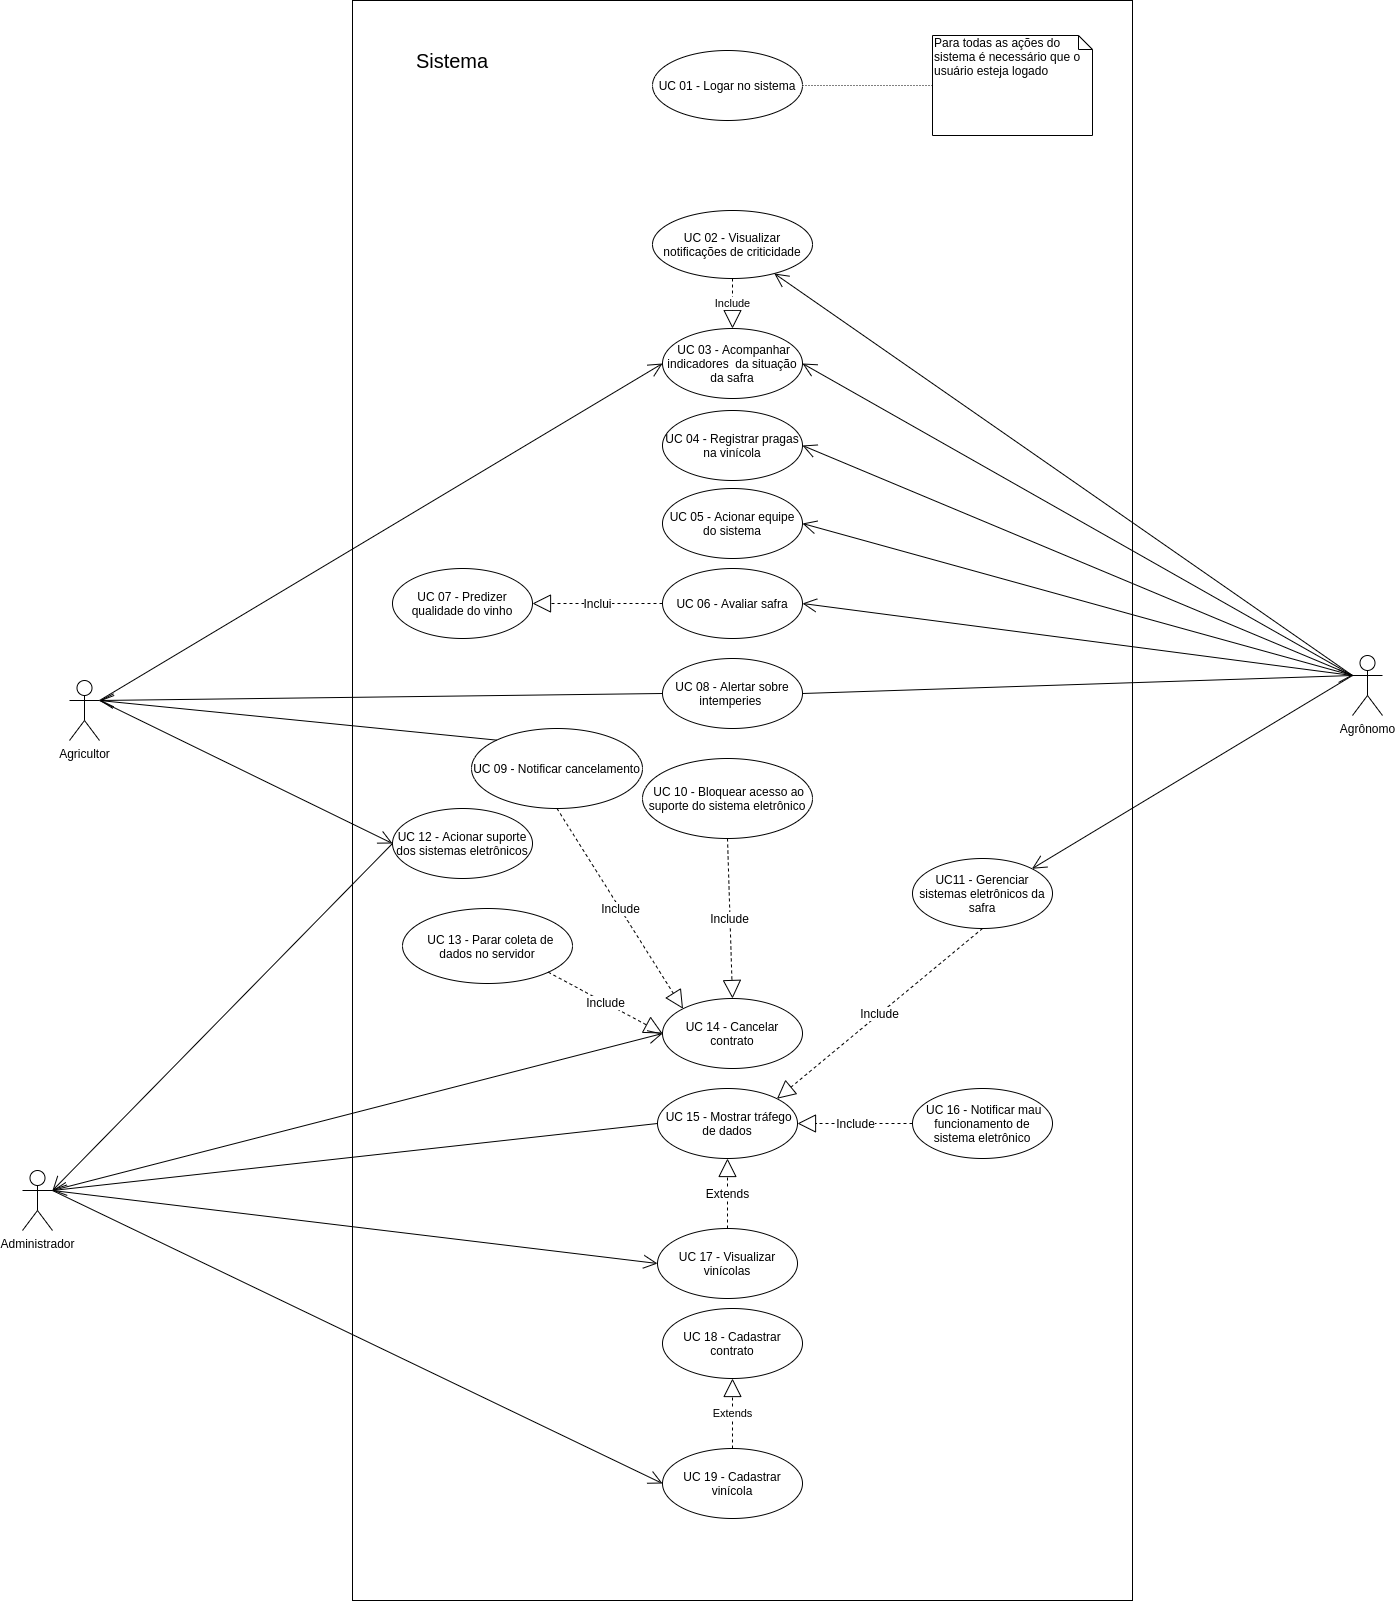
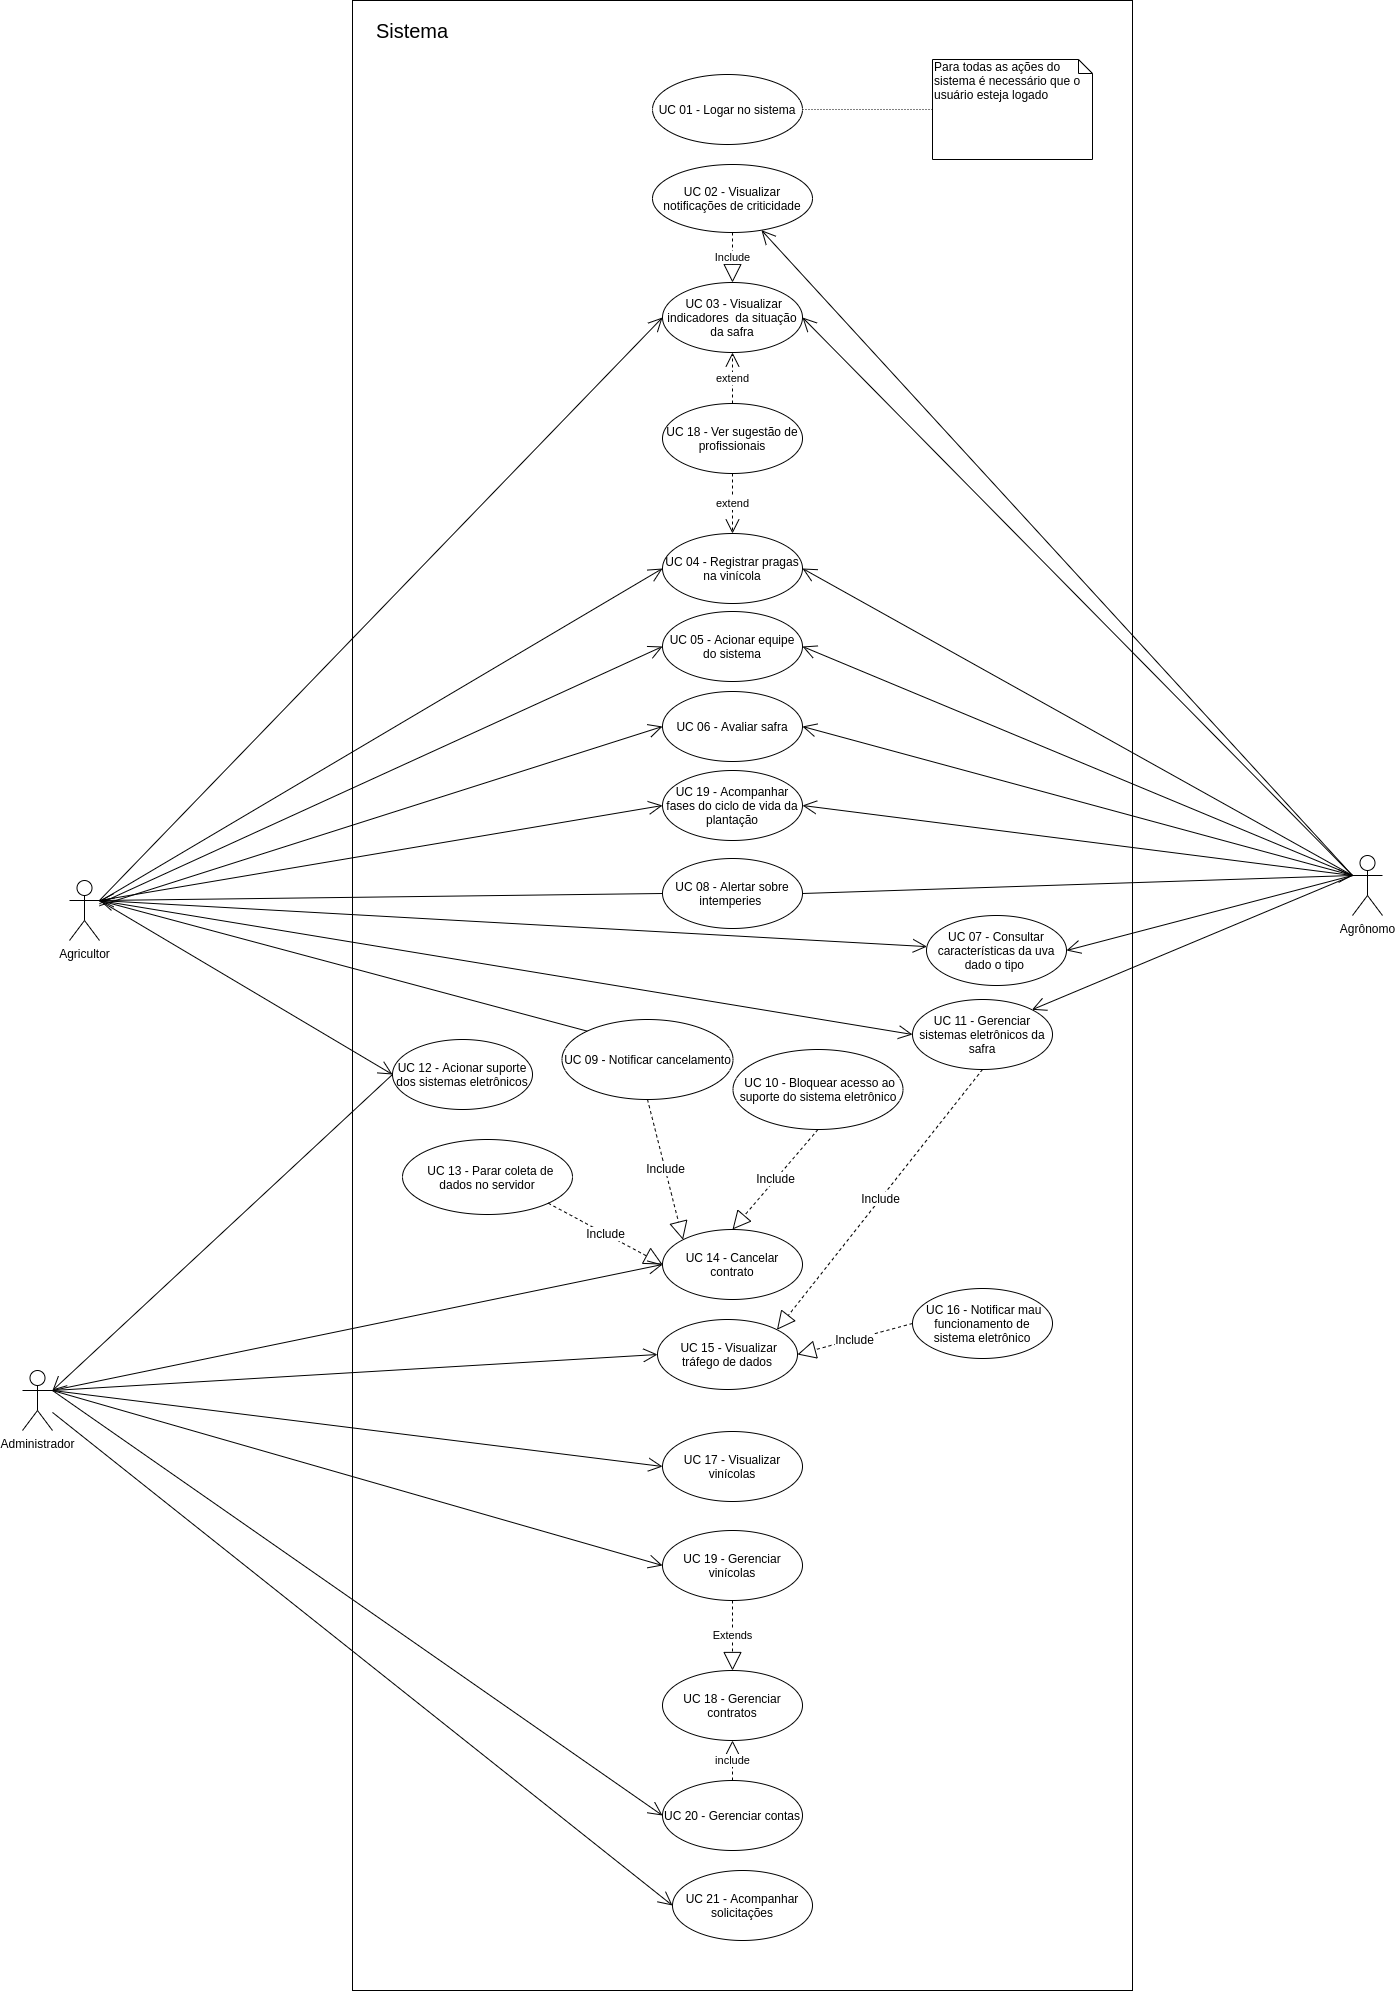
[Docs] Updating user cases

diff --git a/docs/software/architecture.md b/docs/software/architecture.md
@@ -104,13 +104,13 @@ O diagrama de caso de uso descreve as funcionalidades propostas para um sistema,
 | | |
 | -- | -- |
 | Descrição | O agrônomo visualizará as notificações recebidas sobre quaisquer indicadores críticos relacionados à safra |
-| Atores | Agrônomo |
-| Pré-condições | Usuário deve possuir perfil de agrônomo no sistema |
+| Atores | Agrônomo, agricultor |
+| Pré-condições | Usuário deve possuir perfil de agrônomo ou agricultor no sistema |
 | Pós-condições | O usuário deve receber notificações sempre que a vinícola apresentar algum indicador fora do intervalo esperado, via email e através do próprio sistema |
-| Fluxo principal | 1. Sistema decta indicador fora do intervalo <br> 2. Usuário recebe email sobre a criticidade de um indicador <br> 3. Usuário entra no sistema <br> 4.Usuário clica nas notificações |
+| Fluxo principal | 1. Sistema detecta indicador fora do intervalo <br> 2. Usuário recebe email sobre a criticidade de um indicador <br> 3. Usuário entra no sistema <br> 4.Usuário clica nas notificações |
 | Fluxo de exceção | |
 
-#### UC 03 - Acompanhar indicadores da situação da safra
+#### UC 03 - Visualizar indicadores da situação da safra
 | | |
 | -- | -- |
 | Descrição | O usuário poderá visualizar um dashboard com os principais indicadores da safra |
@@ -124,41 +124,40 @@ O diagrama de caso de uso descreve as funcionalidades propostas para um sistema,
 | | |
 | -- | -- |
 | Descrição | Usuário pode registrar pragas identificadas na sua vinícola para acompanhamento |
-| Atores | Agrônomo |
+| Atores | Agrônomo, agricultor|
 | Pré-condições | Usuário deve estar logado no sistema |
 | Pós-condições | Na página de acompanhamento deve aparecer as pragas registradas |
-| Fluxo principal | 1. Usuário faz login no sistema <br> 2. Usuário acessa dashboard e clica em "registrar praga" <br> 3. Preenche o formulário informando a praga <br> 4. Clica em 'registrar' |
+| Fluxo principal | 1. Usuário faz login no sistema <br> 2. Usuário acessa dashboard e clica em "registrar praga" <br> 3. Preenche o formulário informando a praga <br> 4.Registra plano de ação 5. Clica em 'enviar' |
 | Fluxo de exceção | |
 
 #### UC 05 - Acionar equipe do sistema
 | | |
 | -- | -- |
-| Descrição | O usuário poderá acionar a equipe do sistema para eventuais problemas nos dados obtidos, enviando uma mensagem para o administrador |
-| Atores | Agrônomo |
-| Pré-condições | Usuário deve estar logado no sistema |
+| Descrição | O usuário poderá acionar a equipe do sistema para eventuais problemas nos sistemas e/ou dados, enviando uma mensagem para a equipe |
+| Atores | Agrônomo, agricultor |
+| Pré-condições | Usuário deve estar logado no sistema como agrônomo ou agricultor |
 | Pós-condições | O usuário deve conseguir enviar uma mensagem para o administrador a fim de informar irregularidade/problemas no sistema web|
-| Fluxo principal | 1. O usuário deve entrar no sistema <br> 2. Clicar no ícone correspondente à "suporte do sistema" <br> 3. Preencher o formulário infomando o problema e/ou solicitação <br> 4. O usuário deve clicar "enviar"|
+| Fluxo principal | 1. O usuário deve entrar no sistema <br> 2. Clicar no menu lateral correspondente à "suporte" <br> 3. Preencher o formulário informando o tipo, título, mensagem e prioridade do problema e/ou solicitação <br> 4. O usuário deve clicar "enviar"|
 | Fluxo de exceção | |
-
 
 #### UC 06 - Avaliar safra
 | | |
 | -- | -- |
-| Descrição | O agrônomo deverá/poderá responder um questionário sobre a uva obtida no final da safra |
+| Descrição | O agrônomo responderá um questionário sobre a uva obtida no final da safra |
 | Atores | Agrônomo |
 | Pré-condições | O agrônomo deve está logado no sistema |
 | Pós-condições | O usuário deve receber uma análise da qualidade do vinho a ser obtido com a uva coletada |
 | Fluxo principal | 1. O agrônomo entrará na página do dashboard <br> 2. Clicará em "avaliar resultado da safra" <br> 3. Irá clicar em "enviar" <br> 4. Será redirecionado para uma página em formato PDF com as prováveis qualidades do vinho que será obtido com a uva produzida. |
 | Fluxo de exceção | |
 
-#### UC 07 - Predizer qualidade do vinho
+#### UC 07 - Consultar características da uva dado o tipo
 | | |
 | -- | -- |
-| Descrição | Ao receber as informações da avaliação da safra, realizada pelo agrônomo, o sistema irá fornecer informações sobre a qualidade do vinho a ser obtido com aquela safra |
+| Descrição | O usuário poderá consultar as características físico/químicas da uva de acordo com o tipo de uva |
 | Atores | Sistema |
-| Pré-condições | O agrônomo deve enviar o formulário de avaliação da safra |
-| Pós-condições | O sistema deve ser capaz de mapear a qualidade do vinho a ser obtido |
-| Fluxo principal | 1. O usuário enviará o formulário de avaliação <br> 2. O sistema realizará a predição <br> 3. O sistema fornecerá um PDF com as informações processadas |
+| Pré-condições | O usuário deve ter perfil de agrônomo ou agricultor no sistema |
+| Pós-condições | O sistema deve ser capaz de retornar um relatório com as principais características da uva |
+| Fluxo principal | 1. O usuário acessa menu lateral <br> 2. Clica em 'caracteríriscas uva' <br> 3. Será direcionado para uma página com um formulário para seleção do tipo de uva  <br> 4. O sistema fornecerá uma tabela com as principais características |
 | Fluxo de exceção |  |
 
 
@@ -200,7 +199,7 @@ O diagrama de caso de uso descreve as funcionalidades propostas para um sistema,
 | Atores | Agrônomo |
 | Pré-condições | O usuário deve estar logado na plataforma e possuir perfil de agrônomo |
 | Pós-condições | O usuário deve ter acesso à todos os sistemas eletrônicos e dados processados dentro do sistema |
-| Fluxo principal | 1. O agrônomo entra na plataforma <br> 2. Clica em "Sistemas instalados" <br> 3. Vê a lista de sistemas instalados na vinícola <br> 4. Entra em um sistema que deseja gerenciar <br> 5. Visualiza os sensores instalados, dados coletados, entre outras informações |
+| Fluxo principal | 1. O agrônomo ou agricultor entra na plataforma <br> 2. Clica em "Sistemas" <br> 3. Vê a lista de sistemas instalados na vinícola <br> 4. Entra em um sistema que deseja gerenciar <br> 5. Visualiza os sensores instalados, dados coletados, entre outras informações |
 | Fluxo de exceção | |
 
 #### UC 12 - Acionar suporte dos sistemas eletrônicos
@@ -234,14 +233,14 @@ O diagrama de caso de uso descreve as funcionalidades propostas para um sistema,
 | Fluxo principal | 1. Administrador deve logar no sistema <br> 2. Administrador deve selecionar "Contratos" <br> 3. Deve clicar em "cancelar contrato"|
 | Fluxo de exceção | |
 
-#### UC 15 - Mostrar tráfego de dados
+#### UC 15 - Verificar tráfego de dados
 | | |
 | -- | -- |
 | Descrição | O administrador verá o tráfego de dados dos sistemas presentes nas vinícolas |
 | Atores | Administrador |
 | Pré-condições | O usuário deve estar logado e possuir perfil de administrador |
 | Pós-condições | O administrador deve ser capaz de visualizar pausas ou irregularidades através do tráfego de dados dos sensores |
-| Fluxo principal | 1. O administrador loga no sistema <br> 2. Ele entra na aba "Sistemas eletrônicos" <br> 3. Ele clica em "fluxo de dados" <br> 4. Ele visualiza uma lista de sistemas e sensores <br> 5. Ele filtra pelo sistema que deseja <br> 6.Clica em "filtrar" <br> 7. Entra no sistema e visualiza o tráfego |
+| Fluxo principal | 1. O administrador loga no sistema <br> 2. Ele clica na aba "Monitoramento" <br> 3. Visualiza estado dos sensores |
 | Fluxo de exceção | |
 
 #### UC 16 - Notificar mau funcionamento de sistema eletrônico
@@ -251,9 +250,8 @@ O diagrama de caso de uso descreve as funcionalidades propostas para um sistema,
 | Atores | Sistema |
 | Pré-condições | Algum sensor deve deixar de enviar dados com regularidade |
 | Pós-condições | Administrador recebe notificação e email informando qual o sistema eletrônico que possivelmente está com problemas |
-| Fluxo principal | 1. O usuário deve entrar no sistema <br> 2. Clicar no ícone correspondente à "sistema físico" <br> 3. Abrirá uma página discriminando os sistemas instalados na vinícola 4. O usuário deve clicar em acionar supor|
+| Fluxo principal | 1. O usuário deve entrar no sistema <br> 2. Clicar no ícone correspondente à "sistema" <br> 3. Abrirá uma página discriminando os sistemas instalados na vinícola 4. O usuário deve clicar em acionar suporte |
 | Fluxo de exceção | |
-
 
 #### UC 17 - Visualizar vinícolas
 | | |
@@ -262,7 +260,7 @@ O diagrama de caso de uso descreve as funcionalidades propostas para um sistema,
 | Atores | Administrador |
 | Pré-condições | O usuário deve estar logado e possuir perfil de administrador |
 | Pós-condições | O usuário deve visualizar todas as vinícolas cadastradas |
-| Fluxo principal | 1. Usuário entra no sistema <br> 2. Usuário clica em "Vinícolas" |
+| Fluxo principal | 1. Usuário entra no sistema <br> 2. Usuário clica em "monitoramento" 3. Seleciona uma vinícola |
 | Fluxo de exceção | |
 
 #### UC 18 - Cadastrar contrato
@@ -272,7 +270,7 @@ O diagrama de caso de uso descreve as funcionalidades propostas para um sistema,
 | Atores | Administrador |
 | Pré-condições | O usuário deve estar logado e possuir perfil de administrador |
 | Pós-condições | O contrato deve estar pronto para receber os dados da vinícola a ser vinculada |
-| Fluxo principal | 1. O administrador entra no sistema <br> 2. Clica em "novo contrato" <br> 3. Preenche o formulário com os dados do novo contrato <br> 4. O usuário é redirecionado para a página de contratos |
+| Fluxo principal | 1. O administrador entra no sistema <br> 2. Clica em contrato 3. Clica em "novo contrato" <br> 3. Preenche o formulário com os dados do novo contrato <br> 4. O usuário é redirecionado para a página de contratos |
 | Fluxo de exceção | |
 
 #### UC 19 - Cadastrar vinícola
@@ -280,10 +278,30 @@ O diagrama de caso de uso descreve as funcionalidades propostas para um sistema,
 | -- | -- |
 | Descrição | O administrador irá cadastrar as vinícolas associando-as a um contrato |
 | Atores | Administrador |
-| Pré-condições | 1. O usuário deve estar logado e ser administrador <br> 2. O contrato deve existir e estar ativo <br> 3. Os sistemas devem estar instalados e cadastrados |
+| Pré-condições | 1. O usuário deve estar logado e ser administrador <br> 2. O contrato deve existir e estar ativo |
 | Pós-condições | 1. Devem ser criados os emails do agricultor e do agrônomo responsável, fornecendo-os acesso ao sistema <br> 2. A vinícola deve aparecer na lista de vinícolas cadastradas <br> 3. Os sistemas devem ser associados à vinícola  <br> 4. Os dados devem ser captados do servidor |
 | Fluxo principal | 1. O administrador entra no sistema <br> 2. Pesquisa pelo contrato que receberá a vinícola <br> 3. Entra no contrato <br> 4. Clica em "cadastrar vinícola" <br> 5. Preenche o formulário <br> 6. Clica em "cadastrar" |
-| Fluxo de exceção | |
+| Fluxo de exceção | Se a vinícola já existir o usuário só poderá editar o cadastro |
+
+#### UC 20 - Gerenciar contas 
+| | |
+| -- | -- |
+| Descrição | O administrador poderá cadastrar, ativar ou inativar contas para os contratos |
+| Atores | Administrador |
+| Pré-condições | 1. O usuário a ser cadastrado deve ser associado à vinícola e contrato correspondente |
+| Pós-condições | 1. As contas dos usuários devem ser criadas, ativadas, inativadas ou atualizadas |
+| Fluxo principal | 1. O administrador entra no sistema <br> 2. Clica no menu lateral em "gerenciar usuários" <br> 3. Administrador pode criar ou alterar os usuários |
+| Fluxo de exceção |  |
+
+#### UC 21 - Acompanhar solicitações
+| | |
+| -- | -- |
+| Descrição | O administrador realizará o acompanhamento das solicitações recebidas de cadastro através da landing page |
+| Atores | Administrador |
+| Pré-condições | 1. O usuário deve ter perfil de administrador |
+| Pós-condições | 1. O usuário deve ser capaz de visualizar, e dar check nas solicitações recebidas, marcando-as como atendidas, em execução ou canceladas |
+| Fluxo principal | 1. O administrador entra no sistema <br> 2. Clica no menu lateral em "solicitações"  |
+| Fluxo de exceção |  |
 
 ## 5. Visão Lógica
 
@@ -321,3 +339,4 @@ A visão geral de banco de dados consiste na diagramação básica que define co
 | Versão 01 - Reorganização do documento | Adrianne Alves da Silva | 23/08/2020 |
 | Versão 02 - Inserção de diagrama lógico de banco de dados | Adrianne Alves da Silva | 09/09/2020 |
 | Versão 02 - Atualização do diagrama de pacotes | Lucas Vitor | 10/09/2020 |
+| Versão 02 - Atualização do diagrama de casos de uso | Adrianne Alves| 10/09/2020 |
